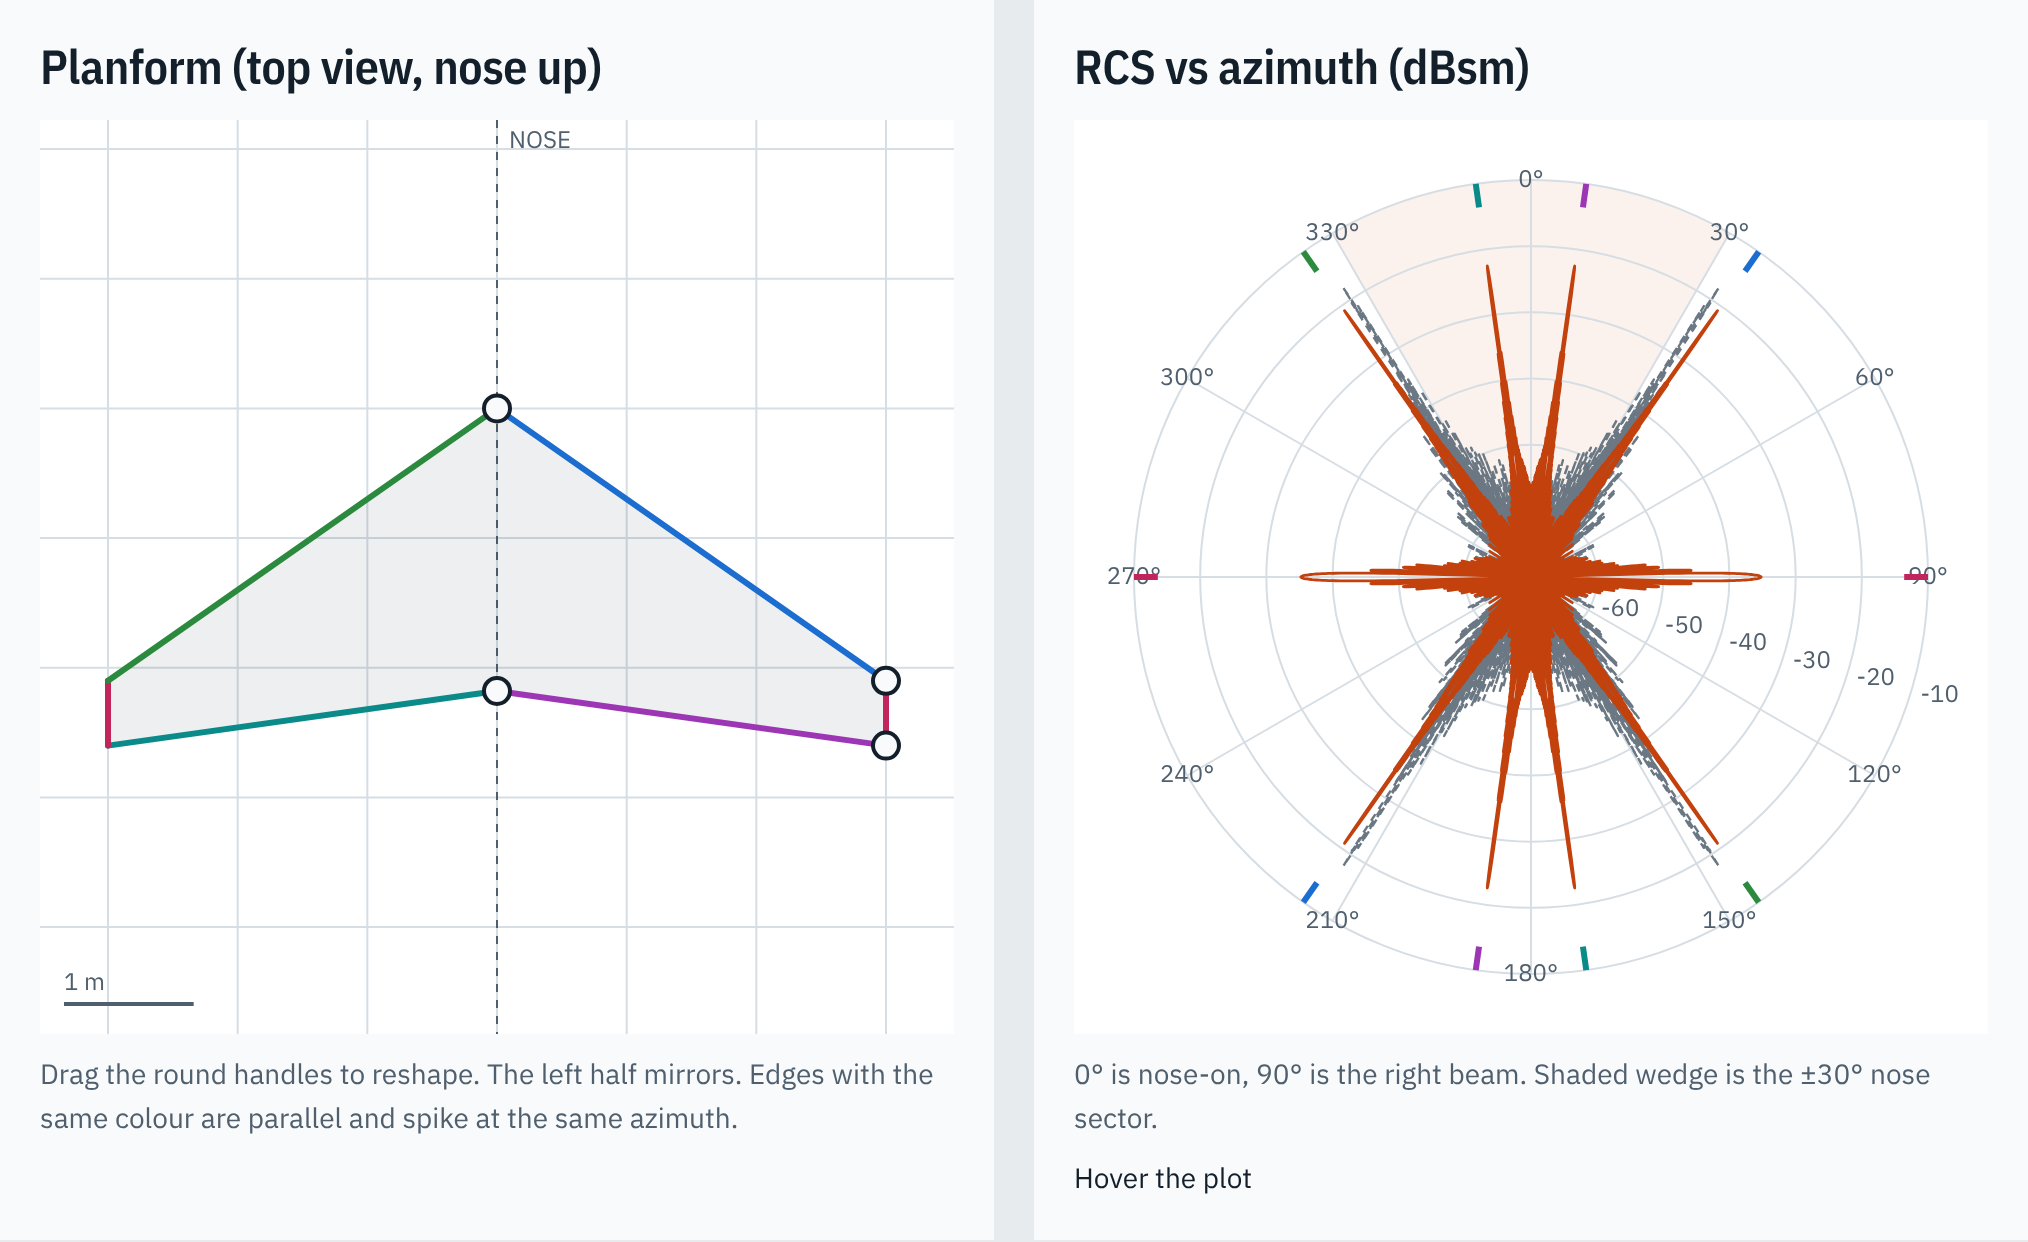
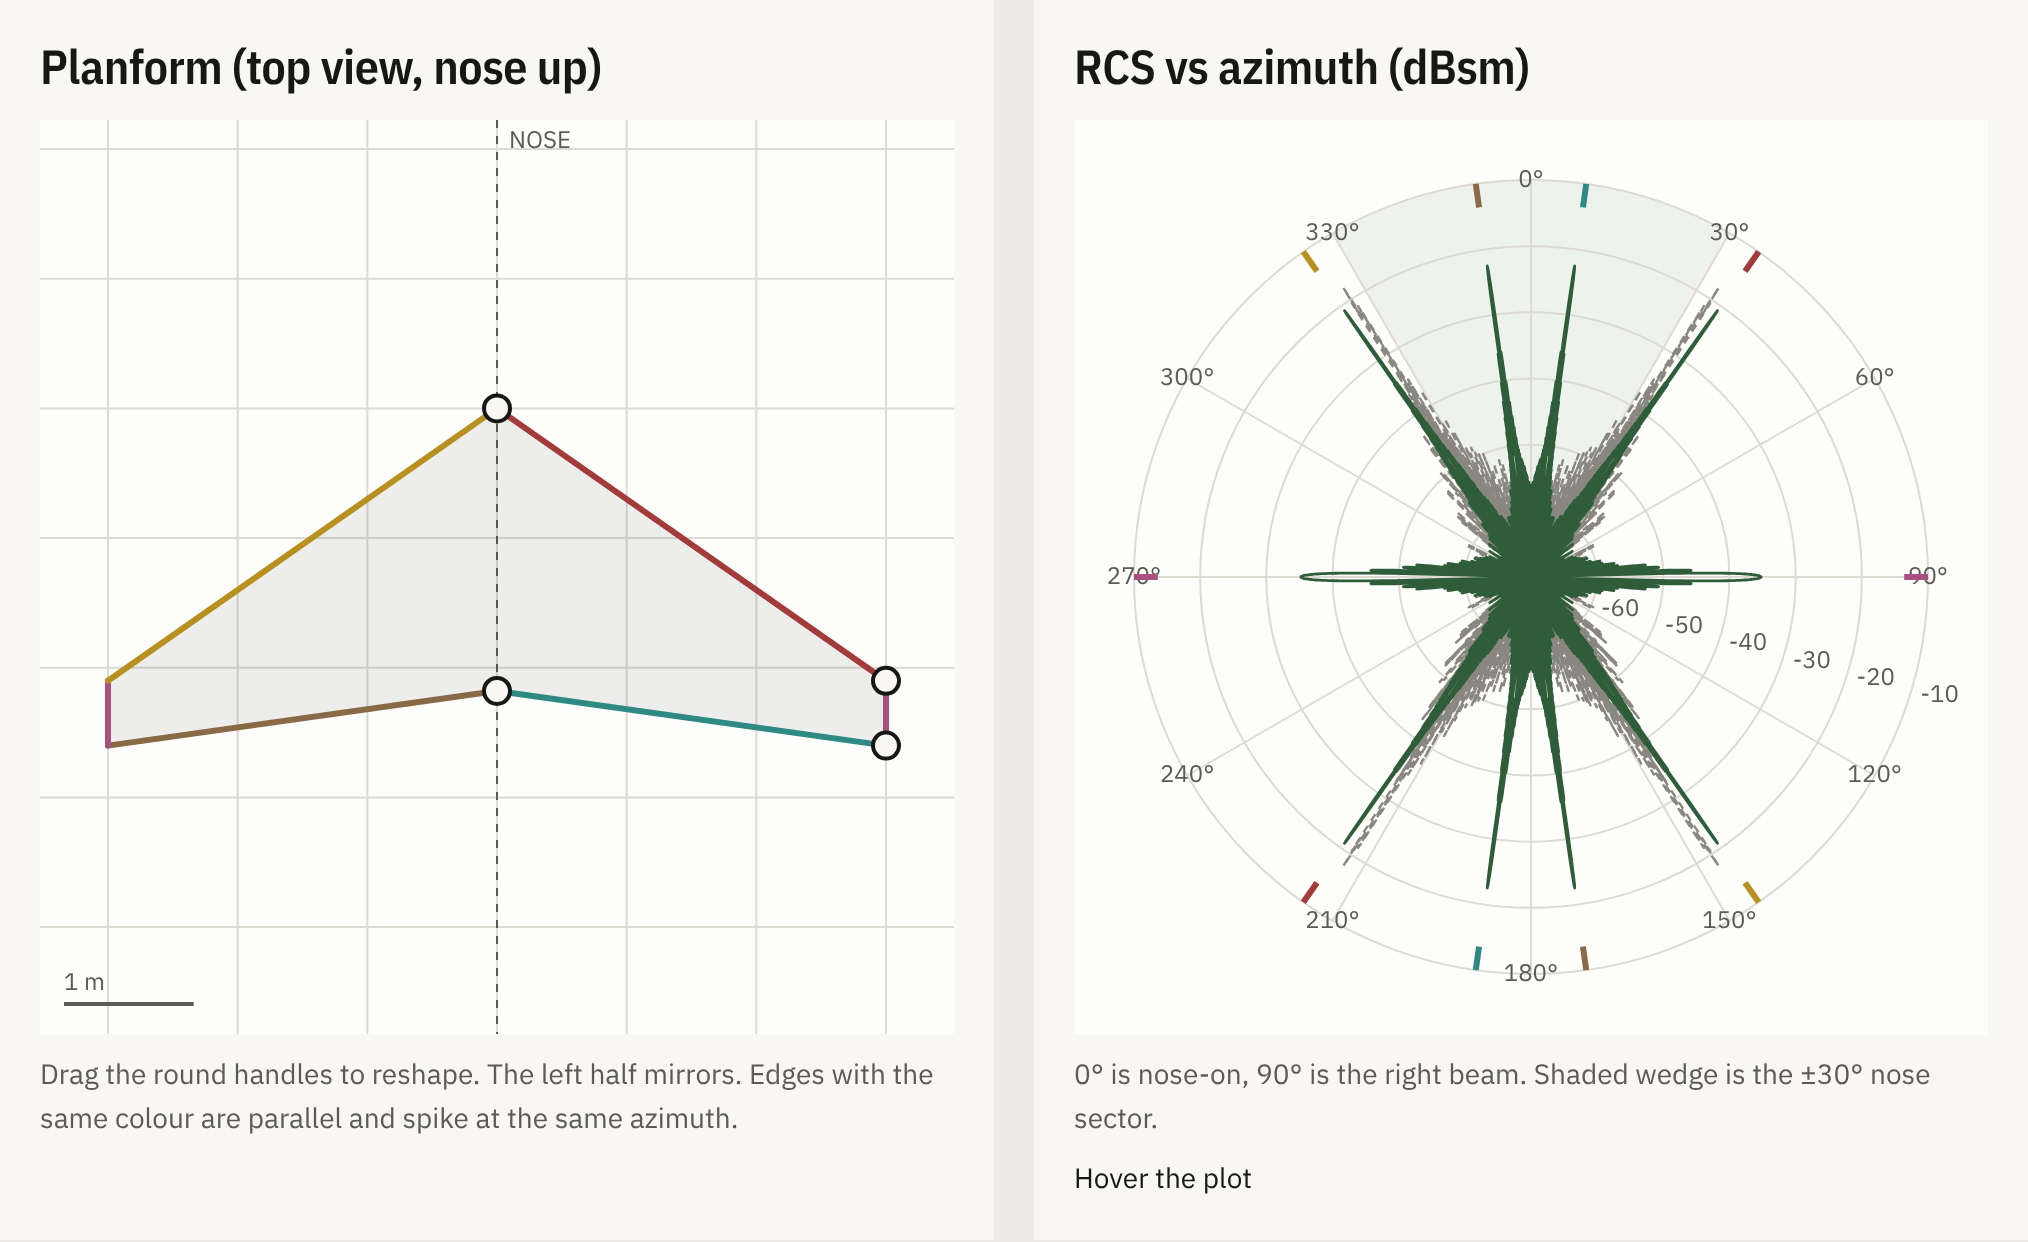
Neutral palette with a green accent; muted edge and heat-map colours

diff --git a/index.html b/index.html
@@ -14,8 +14,8 @@
 @font-face{font-family:"IBM Plex Sans Condensed";font-weight:600;font-style:normal;font-display:swap;src:url("fonts/ibm-plex-sans-condensed-latin-600-normal.woff2") format("woff2")}
 /* Layout idea: an instrument bench. A big plain question on top, then the controls rail and the two scopes side by side, numbers as one strip underneath. Surfaces are separated by tone, never by lines. */
 :root{
-  --bg:#e7ebee; --panel:#f8fafb; --well:#dde3e8; --line:#d6dde3; --ink:#13202b; --muted:#4f5f6d;
-  --accent:#c2410c; --on-accent:#ffffff; --ref:#6b7884; --scope:#ffffff; --warn:#b42318; --good:#22703a;
+  --bg:#ecebe7; --panel:#f8f7f4; --well:#e0dfd9; --line:#dcdad3; --ink:#171716; --muted:#5b5a55;
+  --accent:#2f5d3a; --on-accent:#ffffff; --ref:#8a8780; --scope:#fdfdfb; --warn:#9b2c2c; --good:#2f5d3a;
   --display:"IBM Plex Sans Condensed","Arial Narrow",sans-serif;
   --body:"IBM Plex Sans",system-ui,sans-serif;
   --mono:"IBM Plex Sans",system-ui,sans-serif; /* canvas labels use the text face with tabular figures */
@@ -23,14 +23,14 @@
 }
 @media (prefers-color-scheme: dark){
   :root:not([data-theme="light"]){
-    --bg:#0b1116; --panel:#121a21; --well:#1b252e; --line:#24303a; --ink:#e4eaef; --muted:#9aa8b5;
-    --accent:#fb7a3c; --on-accent:#140b05; --ref:#8d99a5; --scope:#0e151b; --warn:#ff6b5b; --good:#5cc27a;
+    --bg:#121211; --panel:#1a1a18; --well:#272724; --line:#2c2c29; --ink:#e9e8e3; --muted:#a3a19a;
+    --accent:#8fbf7a; --on-accent:#10160d; --ref:#8d8b84; --scope:#151514; --warn:#e07a6e; --good:#8fbf7a;
     color-scheme:dark;
   }
 }
 :root[data-theme="dark"]{
-  --bg:#0b1116; --panel:#121a21; --well:#1b252e; --line:#24303a; --ink:#e4eaef; --muted:#9aa8b5;
-  --accent:#fb7a3c; --on-accent:#140b05; --ref:#8d99a5; --scope:#0e151b; --warn:#ff6b5b; --good:#5cc27a;
+  --bg:#121211; --panel:#1a1a18; --well:#272724; --line:#2c2c29; --ink:#e9e8e3; --muted:#a3a19a;
+  --accent:#8fbf7a; --on-accent:#10160d; --ref:#8d8b84; --scope:#151514; --warn:#e07a6e; --good:#8fbf7a;
   color-scheme:dark;
 }
 *{box-sizing:border-box}
@@ -339,7 +339,7 @@ function half(){return S.custom||genHalf();}
 function full(H){const L=H.slice(1,-1).reverse().map(p=>[p[0],-p[1]]);return H.concat(L);}
 
 /* ---------- planform analysis ---------- */
-const GROUPC=['#1c6dd0','#2b8a3e','#9c36b5','#0b8a8a','#c2255c','#5f3dc4','#8a6d00','#a0522d'];
+const GROUPC=['#a33b3b','#b8901f','#2f8a83','#8a6a46','#a8507e','#6b7d2c','#7d6a9e','#6b6b66'];
 function edges(P){
   const E=[];
   for(let i=0;i<P.length;i++){
@@ -693,7 +693,7 @@ function syncControls(){
   document.getElementById('paramUI').hidden=S.mode!=='param';
   document.getElementById('stepUI').hidden=S.mode!=='step';
   document.getElementById('h-plan').textContent=S.mode==='param'?'Planform (top view, nose up)':'Model hot spots (3D)';
-  document.getElementById('plancap').textContent=S.mode==='param'?'Drag the round handles to reshape. The left half mirrors. Edges with the same colour are parallel and spike at the same azimuth.':'Drag to orbit, right-drag or two fingers to pan, scroll or pinch to zoom. Grey arrow is the nose; orange arrow is the radar look direction.';
+  document.getElementById('plancap').textContent=S.mode==='param'?'Drag the round handles to reshape. The left half mirrors. Edges with the same colour are parallel and spike at the same azimuth.':'Drag to orbit, right-drag or two fingers to pan, scroll or pinch to zoom. Grey arrow is the nose; red arrow is the radar look direction.';
   plan.style.cursor='grab';
   plan.hidden=S.mode!=='param';
   document.getElementById('v3dwrap').hidden=S.mode!=='step';
@@ -776,7 +776,7 @@ if(document.fonts&&document.fonts.ready) document.fonts.ready.then(redraw);
 /* ---------- 3D hot-spot viewer ---------- */
 const HS={mode:'0',range:30,lock:null,az:0};
 let V=null;
-const CMAP=[[0,[48,18,59]],[0.2,[70,98,215]],[0.4,[26,228,182]],[0.6,[162,252,60]],[0.8,[250,186,57]],[1,[210,49,5]]];
+const CMAP=[[0,[214,224,200]],[0.25,[160,186,128]],[0.5,[96,138,70]],[0.75,[184,144,31]],[1,[139,38,38]]];
 function cmap(t){t=Math.max(0,Math.min(1,t));for(let i=1;i<CMAP.length;i++){if(t<=CMAP[i][0]){const a=CMAP[i-1],b=CMAP[i],u=(t-a[0])/(b[0]-a[0]);return [0,1,2].map(k=>(a[1][k]+u*(b[1][k]-a[1][k]))/255);}}return CMAP[CMAP.length-1][1].map(v=>v/255);}
 function buildViewer(){
   const host=document.getElementById('v3d');
@@ -833,12 +833,12 @@ function updateArrows(){
   if(!V)return;
   for(const a of ['radarArrow','noseArrow']) if(V[a]){V.scene.remove(V[a]);}
   const {F}=frame(),L=V.rad*1.45;
-  V.noseArrow=new THREE.ArrowHelper(new THREE.Vector3(...F),V.center.clone().addScaledVector(new THREE.Vector3(...F),V.rad*1.02),V.rad*0.35,0x7b8794,V.rad*0.08,V.rad*0.05);
+  V.noseArrow=new THREE.ArrowHelper(new THREE.Vector3(...F),V.center.clone().addScaledVector(new THREE.Vector3(...F),V.rad*1.02),V.rad*0.35,0x8a8780,V.rad*0.08,V.rad*0.05);
   V.scene.add(V.noseArrow);
   const az=arrowAngle();
   if(az!=null){
     const k=new THREE.Vector3(...kvec(az,S.el3*D2R)),from=V.center.clone().addScaledVector(k,L);
-    V.radarArrow=new THREE.ArrowHelper(k.clone().negate(),from,L-V.rad*1.02,0xd9480f,V.rad*0.12,V.rad*0.07);
+    V.radarArrow=new THREE.ArrowHelper(k.clone().negate(),from,L-V.rad*1.02,0x8b2626,V.rad*0.12,V.rad*0.07);
     V.scene.add(V.radarArrow);
   }
   render3D();
